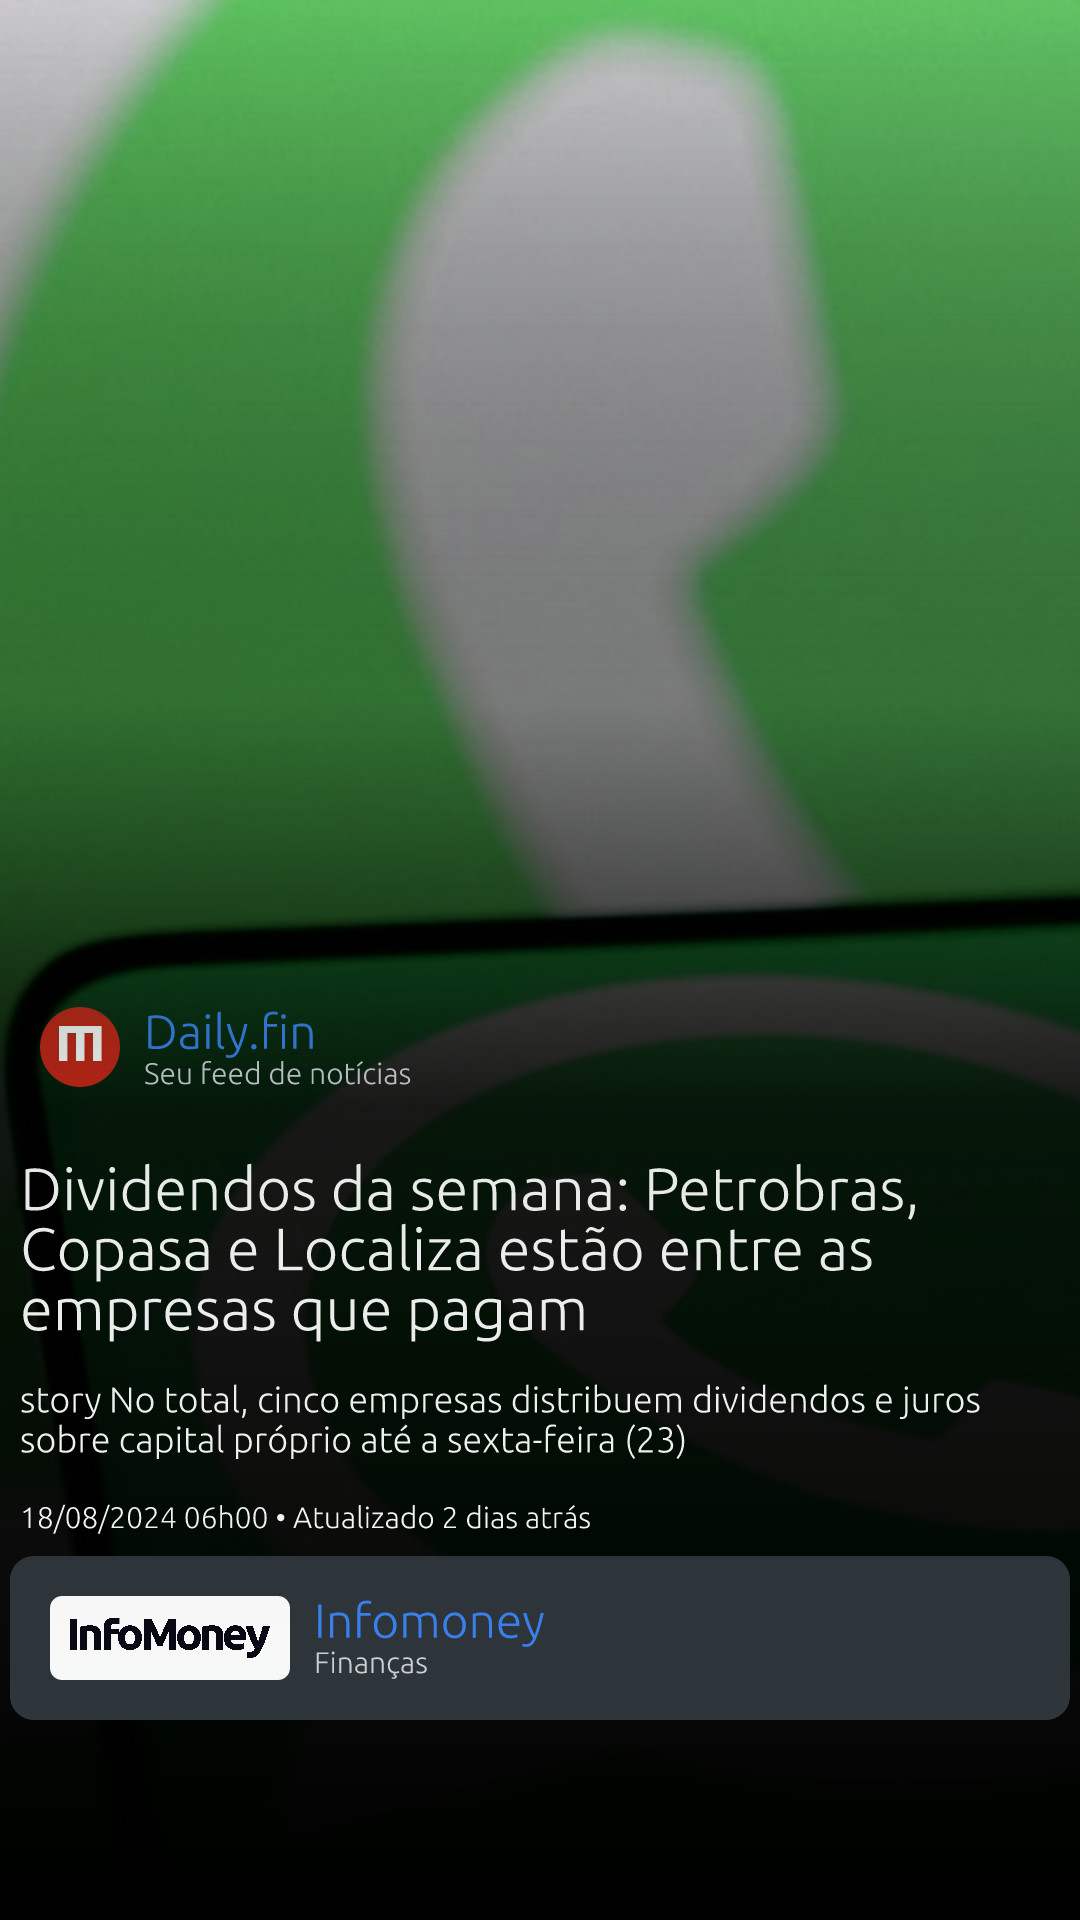
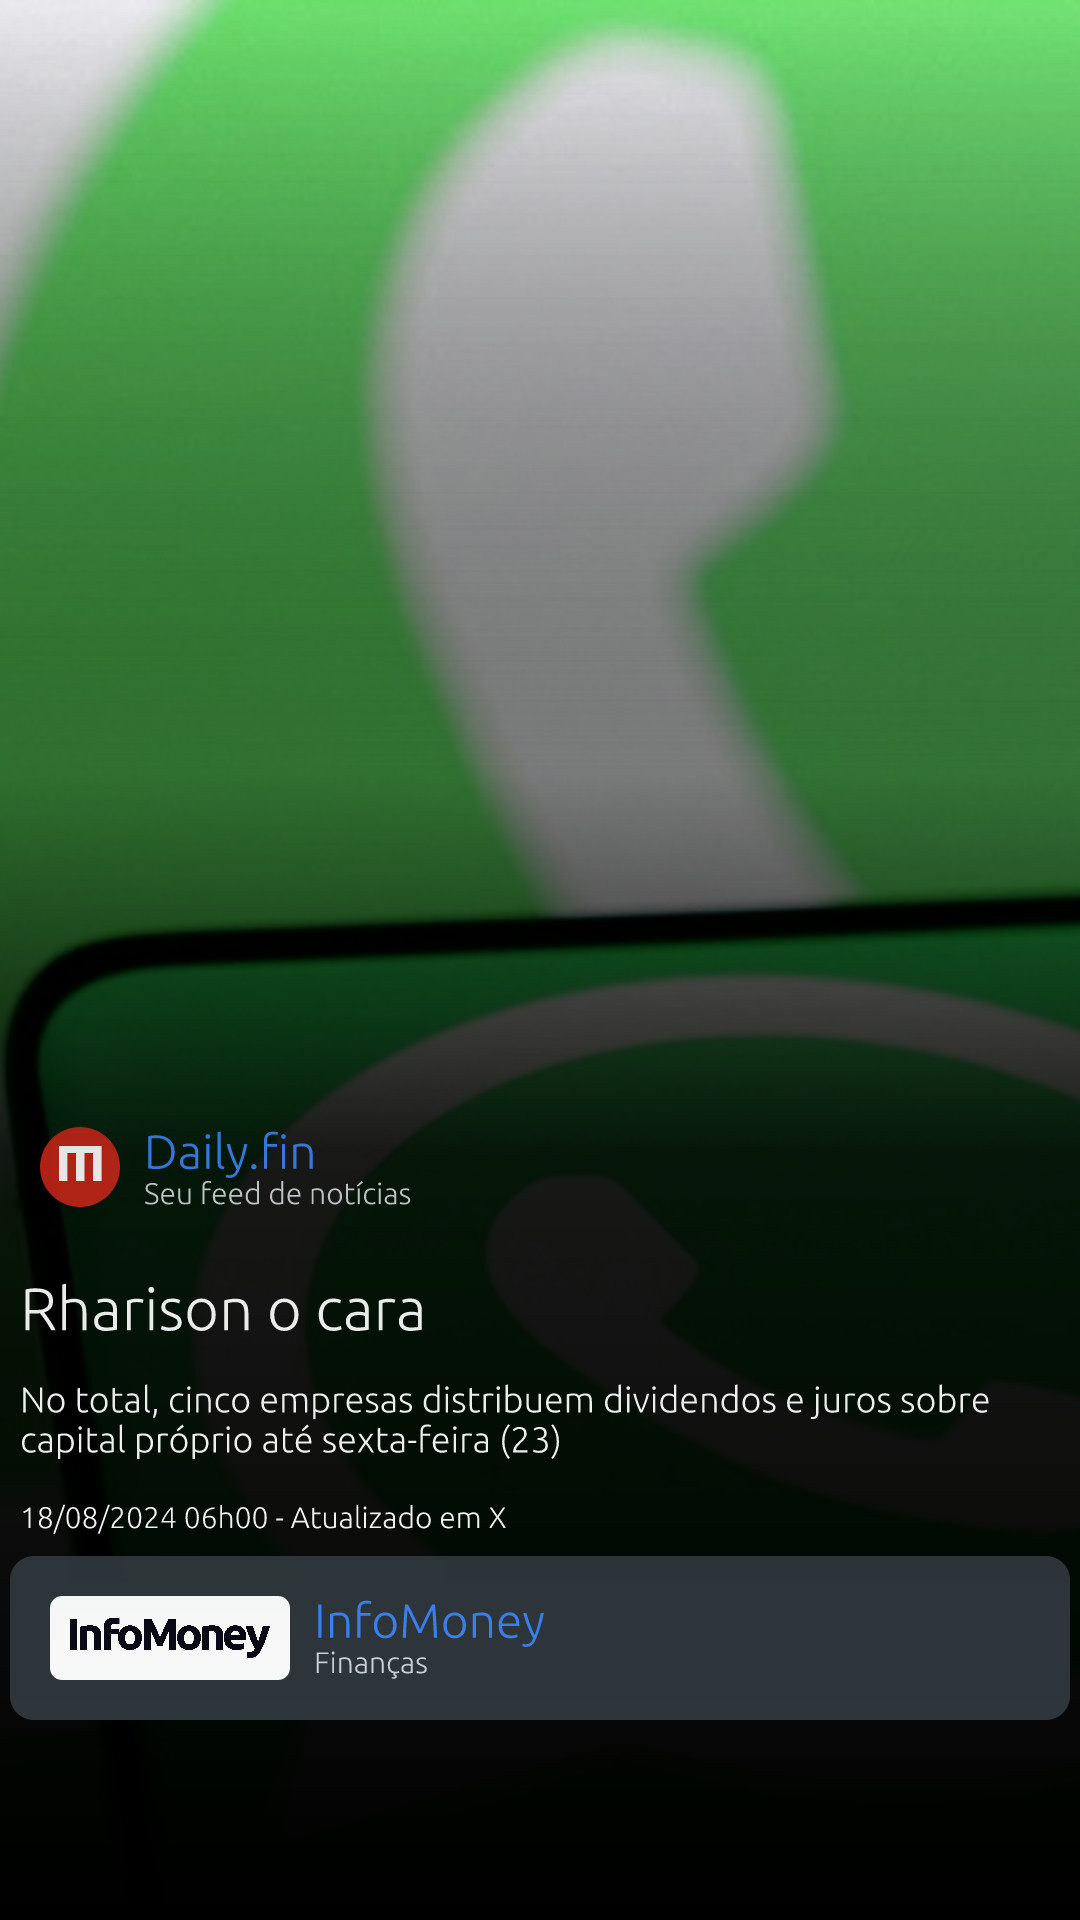
Refatoração React

Changed region(s): [[0.0, 0.5, 0.9167, 0.8125], [0.0, 0.0, 1.0, 0.0938]]

diff --git a/src/GreetingsCard.tsx b/src/GreetingsCard.tsx
@@ -98,7 +98,7 @@ export class GreetingsCard extends Builder<Props> {
 
   // this is where you have to define output ui
   async render() {
-    const { type } = this.options.getOptions();
+    const { company, companyLogo, category, title, description, date, link, type} = this.options.getOptions();
 
     // make sure to use the loadImage helper function to load images, otherwise you may get errors
     const image = await loadImage("https://files.metropoles.com/static/expediente/assets/images/general/portal-metropoles.jpg");
@@ -107,7 +107,7 @@ export class GreetingsCard extends Builder<Props> {
     );
 
     const logo = await loadImage(
-      "https://logodownload.org/wp-content/uploads/2019/09/infomoney-logo.png"
+      companyLogo
     );
 
     return (
@@ -163,28 +163,25 @@ export class GreetingsCard extends Builder<Props> {
               </div>
             </div>
 
-
-            <h1 className="text-6xl text-white px-[20px] font-black">Dividendos da semana: Petrobras, Copasa e Localiza estão entre as empresas que pagam</h1>
-            <h3 className="text-4xl text-white px-[20px]"> {type} No total, cinco empresas distribuem dividendos e juros sobre capital próprio até a sexta-feira (23)</h3>
-            <h4 className="text-3xl text-white px-[20px]">18/08/2024 06h00 • Atualizado 2 dias atrás</h4>
+            <h1 className="text-6xl text-white px-[20px] font-black">{title}</h1>
+            <h3 className="text-4xl text-white px-[20px]">{description}</h3>
+            <h4 className="text-3xl text-white px-[20px]">{date}</h4>
             <div className={`flex items-center p-10 bg-[#30363d] rounded-3xl ${type === 'story' ? 'mb-[200px]' : 'mb-[10px]'} mx-[10px]`} >
               <div className="flex items-center bg-[#FFFFFF] rounded-xl px-[20px]	 h-[100%]">
                 <img
                   src={logo.toDataURL()}
                   className="flex items-center w-[200px]"
                 />
-
               </div>
               <div className="flex flex-col ml-6">
                 <h1 className="text-5xl text-white font-bold m-0">
-                  <span className="text-blue-500">{"Infomoney"}</span>
+                  <span className="text-blue-500">{company}</span>
                 </h1>
-                <p className="text-gray-300 text-3xl m-0">{"Finanças"}</p>
+                <p className="text-gray-300 text-3xl m-0">{category}</p>
               </div>
             </div>
           </div>
         </div>
-
       </div>
     );
   }
